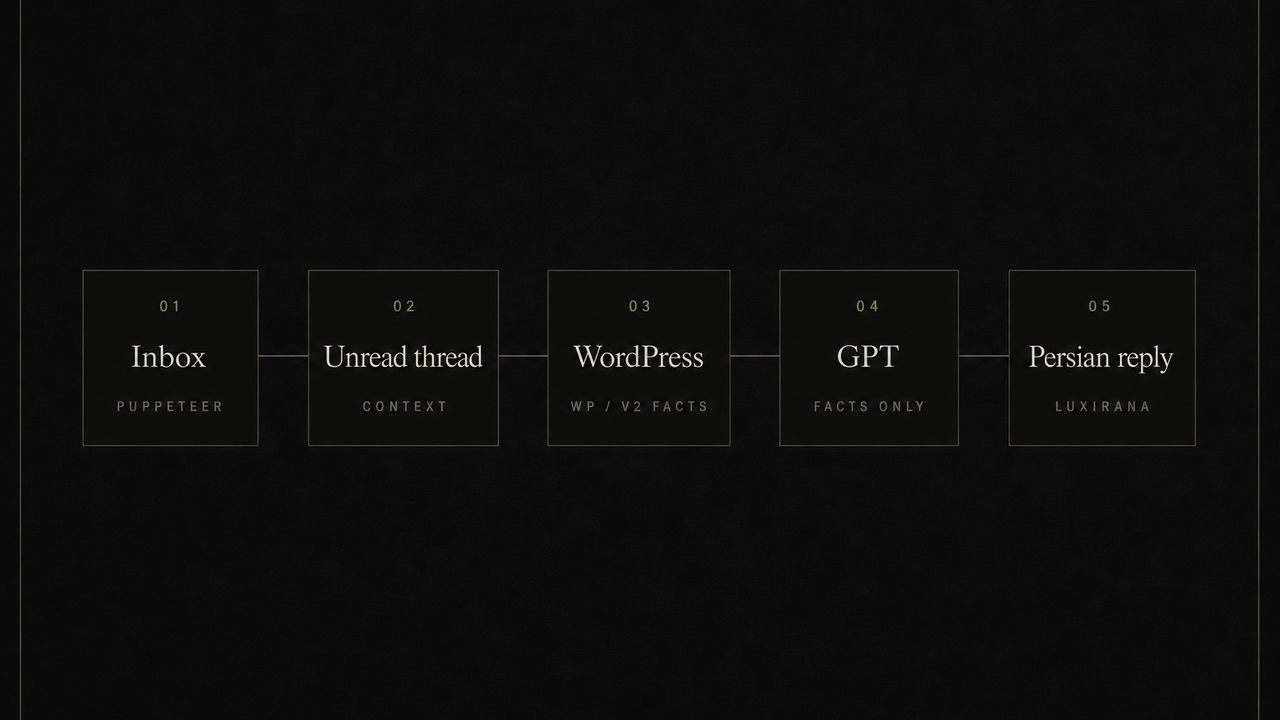
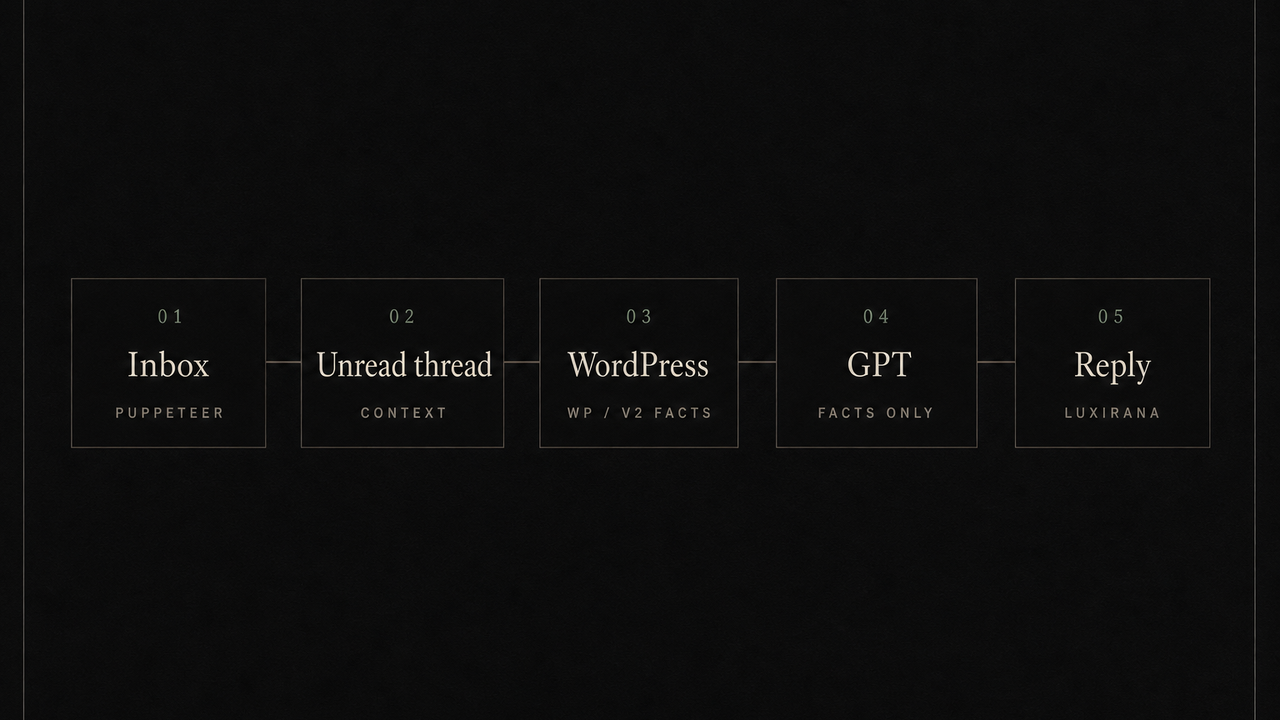
Keep public docs in English only
Strip Persian and Farsi from the README, OG, and flow stills.
Captions stay tight English. Repo name and app code unchanged.

diff --git a/README.md b/README.md
@@ -5,27 +5,27 @@
 <h1 align="center">Affiliate Instagram Bot</h1>
 
 <p align="center">
-  <em>Seylane personality. Luxirana inbox. Persian DMs.</em>
+  <em>Seylane voice. Luxirana inbox. Affiliate DMs.</em>
 </p>
 
 <p align="center">
   This repository stays <strong>affiliate-instagram-bot</strong>.<br>
-  It is the Seylane affiliate Instagram bot for Luxirana — not a rename, not a new product.
+  Seylane affiliate bot for Luxirana. Not a rename. Not a new product.
 </p>
 
 ---
 
-The bot sits in the Luxirana Instagram inbox and talks like a human page admin. It recruits online shop owners into the Seylane Sabz affiliate program (`onlineshops`), answers in Persian, and will not invent product facts.
+The bot sits in the Luxirana Instagram inbox and writes as a page admin. It recruits online shop owners into the Seylane affiliate program (`onlineshops`) and will not invent product facts.
 
-Product names, prices, and links come from the WordPress REST API on [luxirana.com](https://luxirana.com) (`wp/v2`). GPT may only restate what that payload contains.
+Names, prices, and links come from the WordPress REST API on [luxirana.com](https://luxirana.com) (`wp/v2`). GPT may only restate that payload.
 
 ## How a message moves
 
 <p align="center">
-  <img src="docs/flow.png" alt="Inbox to unread thread to WordPress facts to GPT to Persian reply" width="100%">
+  <img src="docs/flow.png" alt="Inbox to unread thread to WordPress facts to GPT to reply" width="100%">
 </p>
 
-Puppeteer (stealth) opens `instagram.com/direct/inbox`, keeps the unread threads, and processes **one** conversation at a time. If the message looks like a product question, `search_product.js` queries WordPress. GPT then writes a short Persian reply. Collaboration intent sends `https://luxirana.com` on its own line.
+Puppeteer (stealth) opens `instagram.com/direct/inbox`, keeps unread threads, and processes **one** conversation at a time. Product questions go through `search_product.js` to WordPress. GPT writes a short reply. Collaboration intent sends `https://luxirana.com` on its own line.
 
 An Instagram Graph API client exists for webhooks and product cards. It is not the inbox loop.
 
